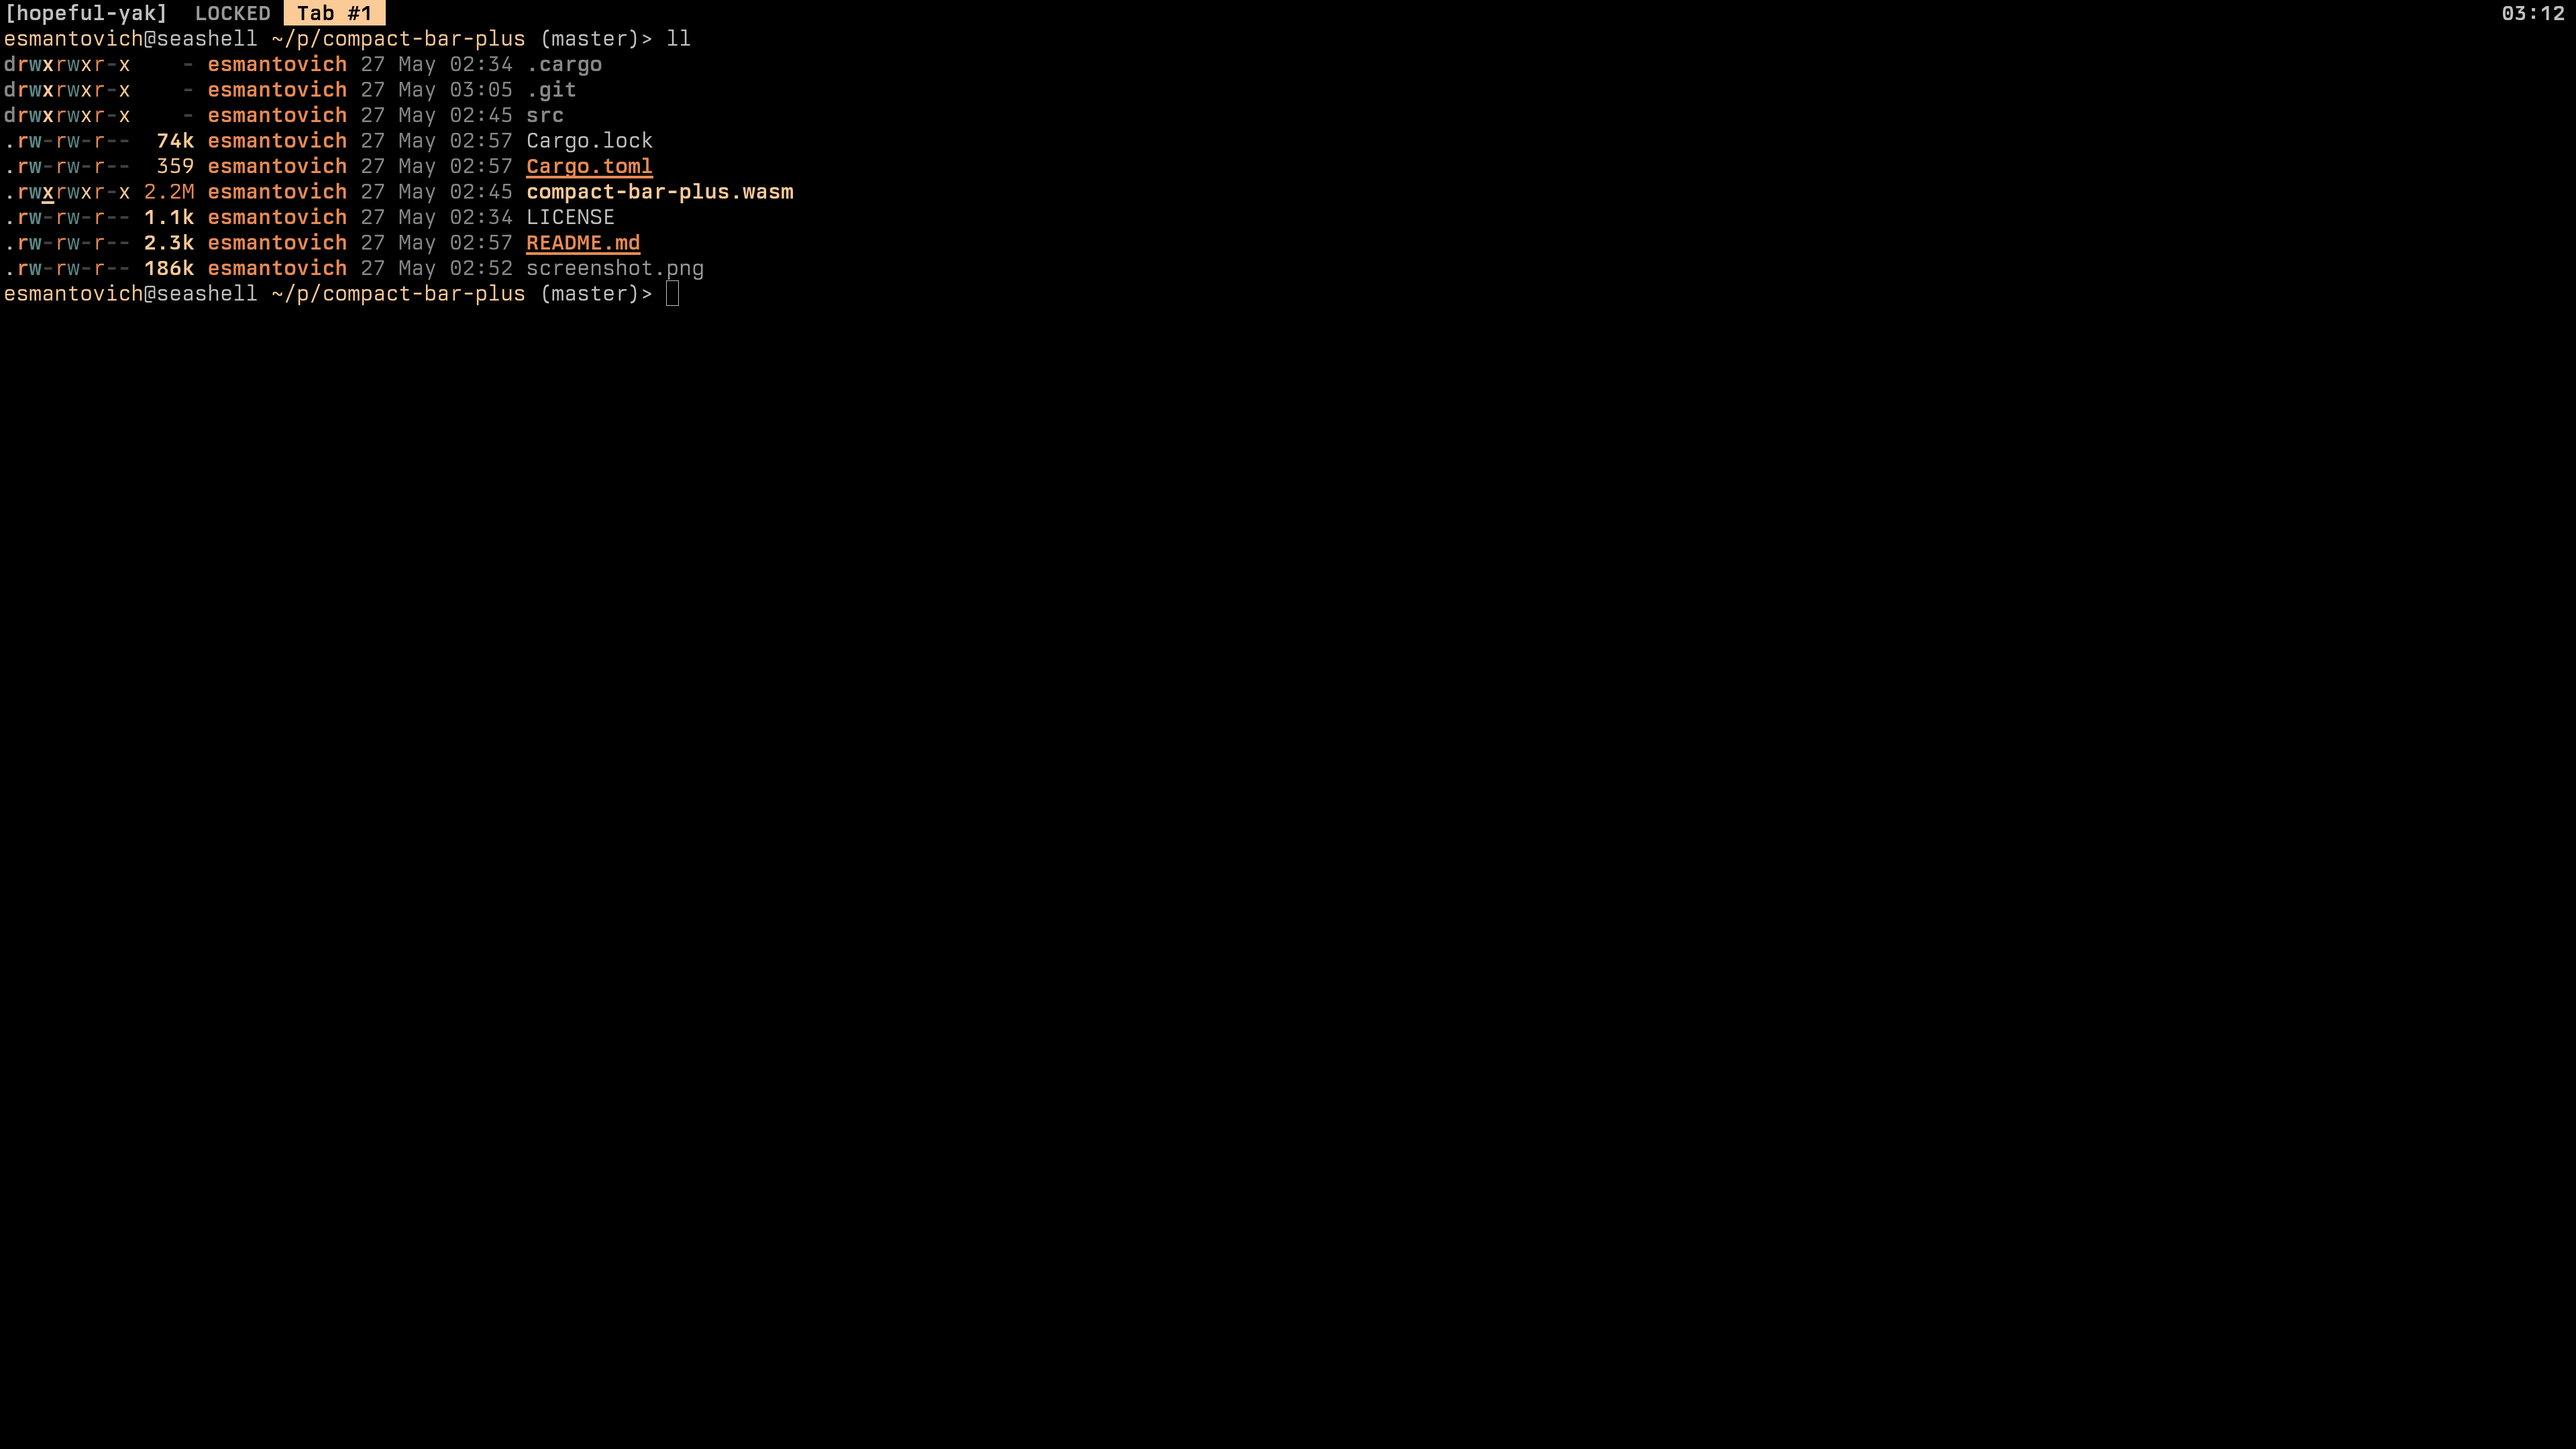
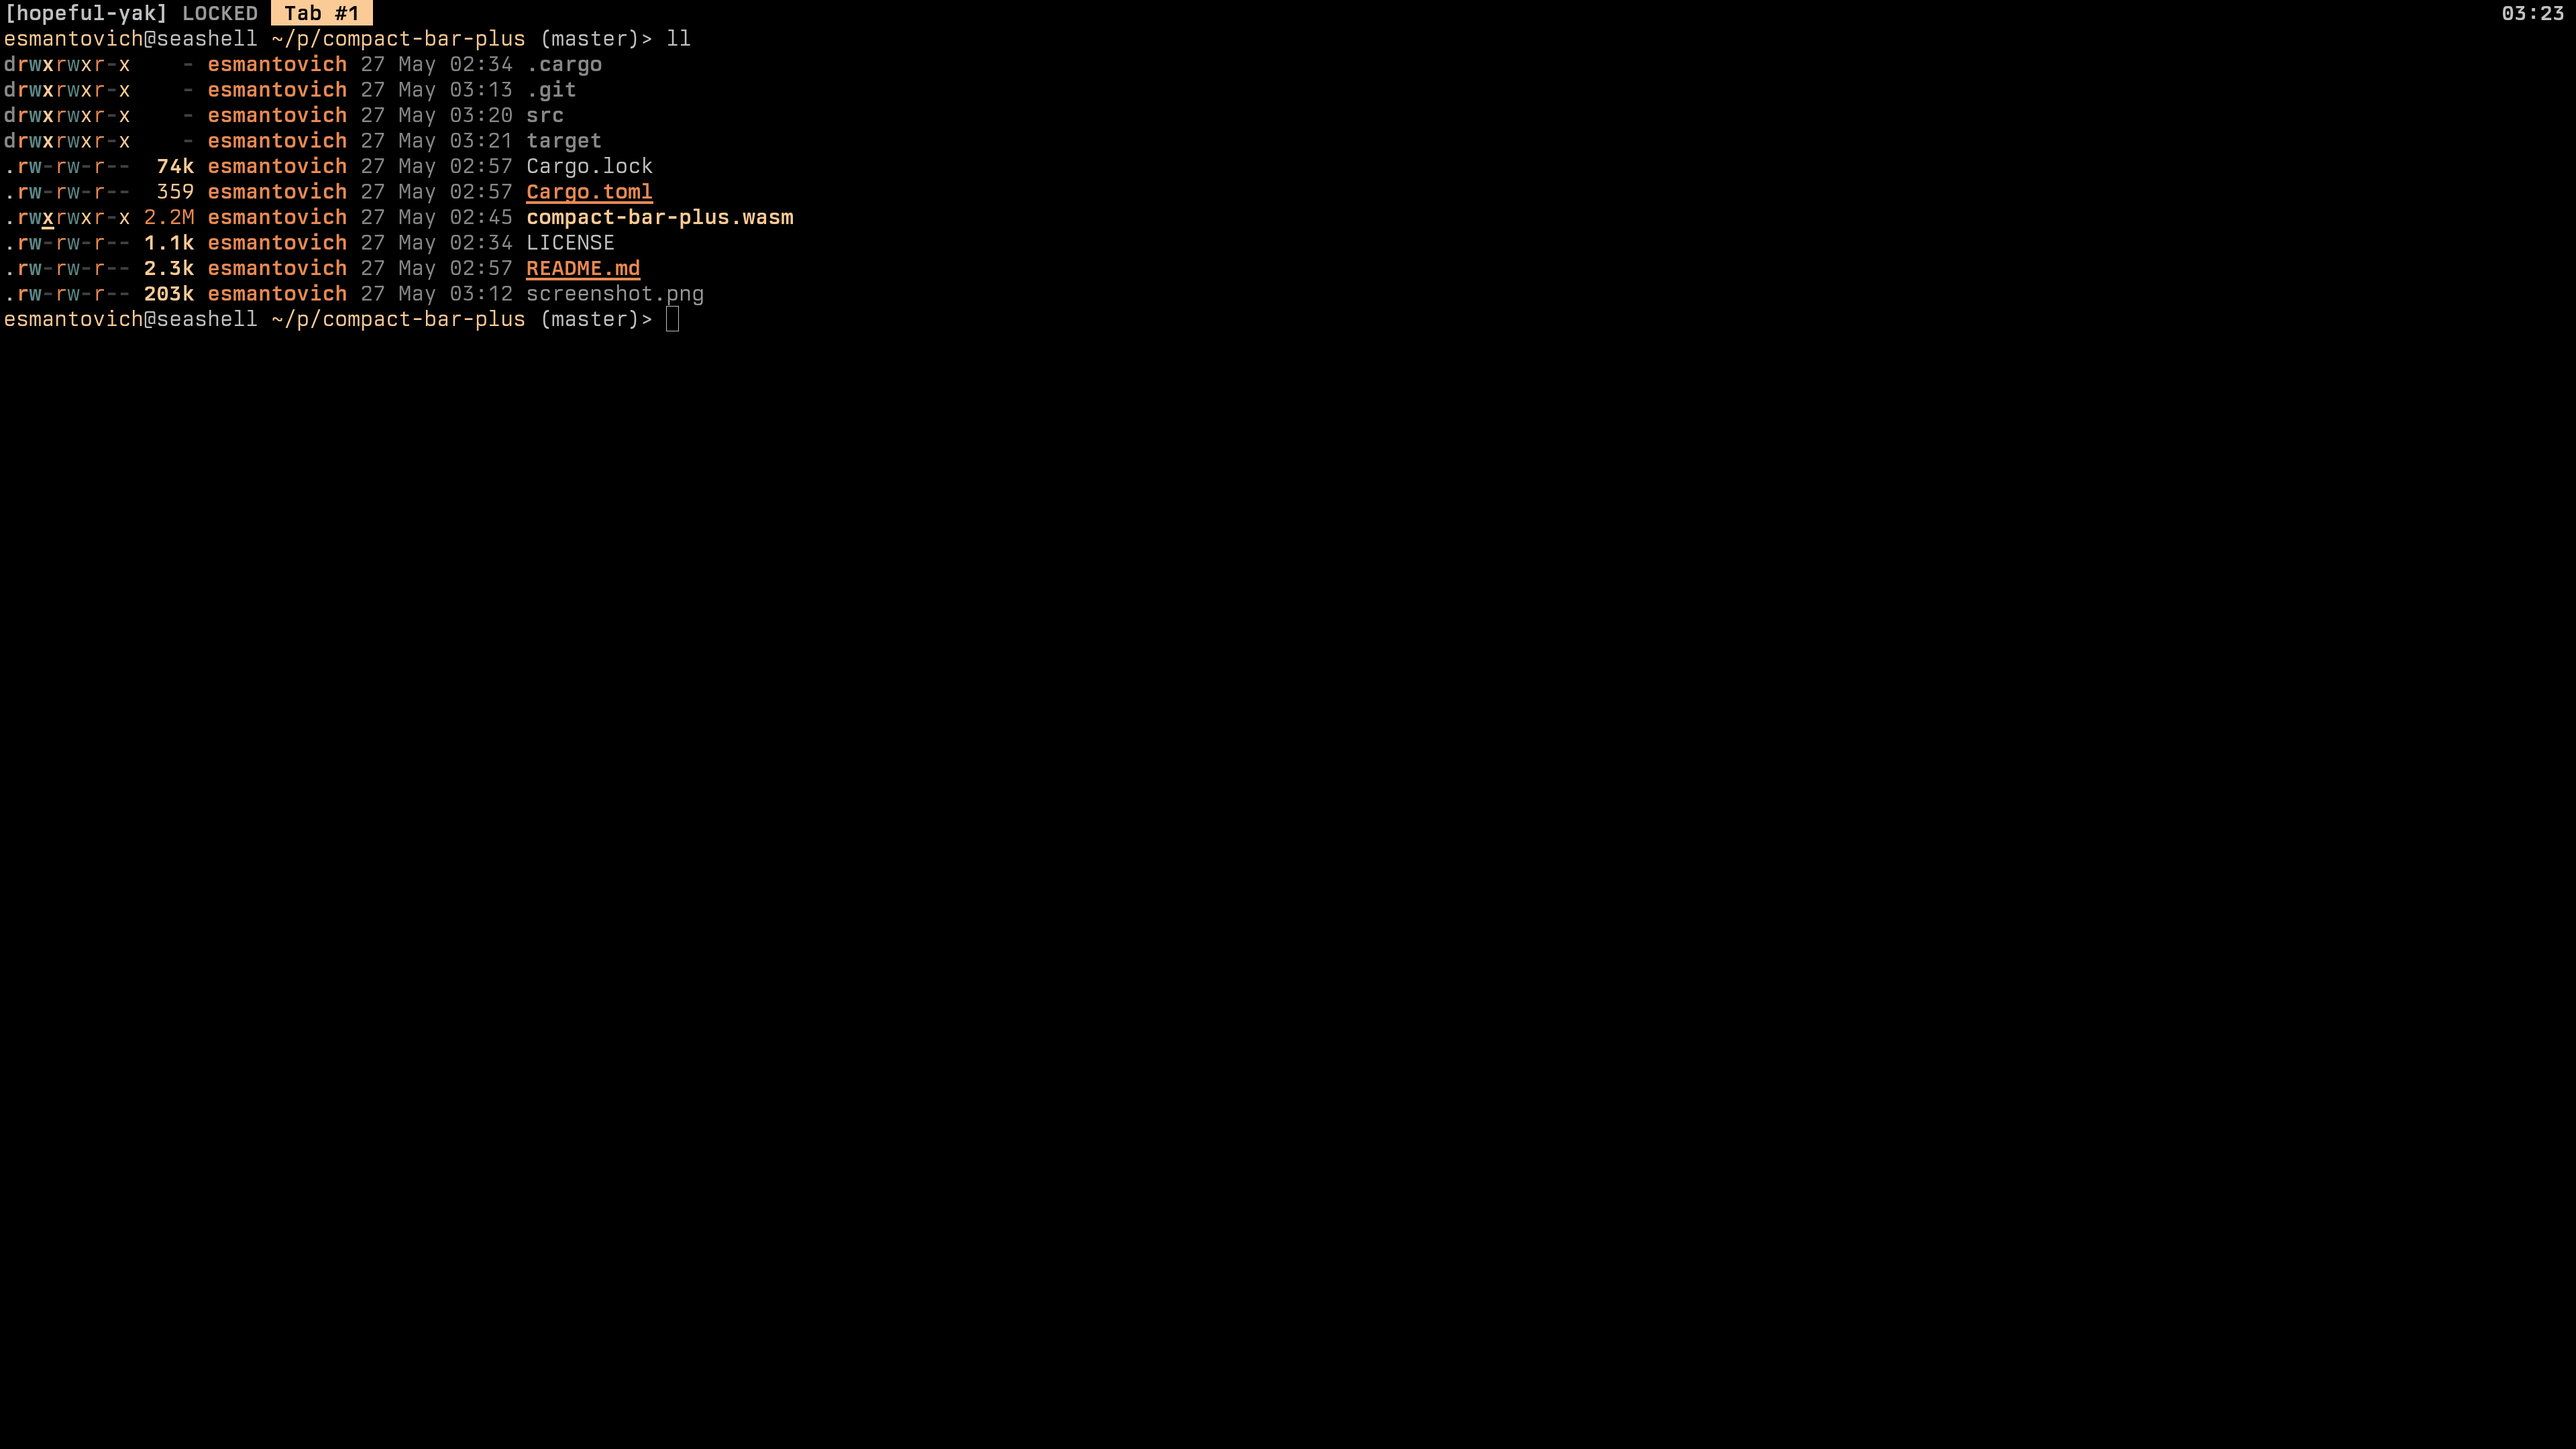
remove extra space, update screenshot

Changed region(s): [[0.0, 0.0931, 0.3125, 0.2481], [0.0312, 0.0931, 0.0938, 0.1551], [0.0938, 0.0, 0.1562, 0.031]]

diff --git a/src/line.rs b/src/line.rs
@@ -308,7 +308,7 @@ impl TabLinePrefixBuilder {
     }
 
     fn create_session_name_part(&self, name: &str, used_len: usize) -> Option<LinePart> {
-        let name_part = format!("[{}] ", name);
+        let name_part = format!("[{}]", name);
         let name_part_len = name_part.width();
 
         if self.cols.saturating_sub(used_len) >= name_part_len {

diff --git a/README.md b/README.md
@@ -21,7 +21,7 @@ It keeps the original compact-bar keybind helper behavior while changing the vis
 rustup target add wasm32-wasip1
 ```
 
-## Install From Source
+## Install
 
 ```sh
 git clone git@github.com:ivanesmantovich/compact-bar-plus.git
@@ -29,15 +29,6 @@ cd compact-bar-plus
 cargo build --release --target wasm32-wasip1
 mkdir -p ~/.config/zellij/plugins
 command cp -f target/wasm32-wasip1/release/compact-bar-plus.wasm ~/.config/zellij/plugins/compact-bar-plus.wasm
-```
-
-## Install Prebuilt Wasm From This Repo
-
-If you trust the checked-in wasm, copy it directly:
-
-```sh
-mkdir -p ~/.config/zellij/plugins
-command cp -f compact-bar-plus.wasm ~/.config/zellij/plugins/compact-bar-plus.wasm
 ```
 
 ## Zellij Configuration
